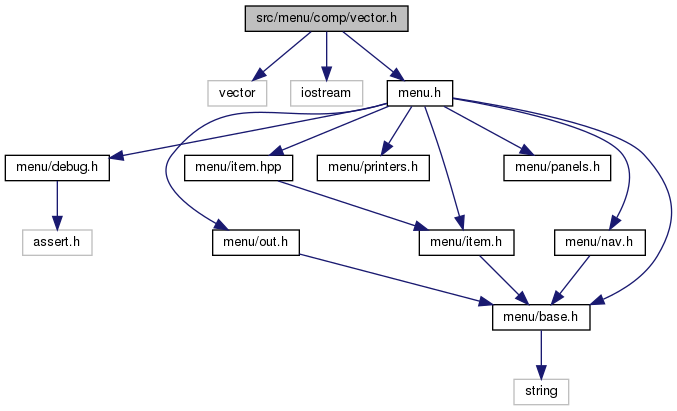
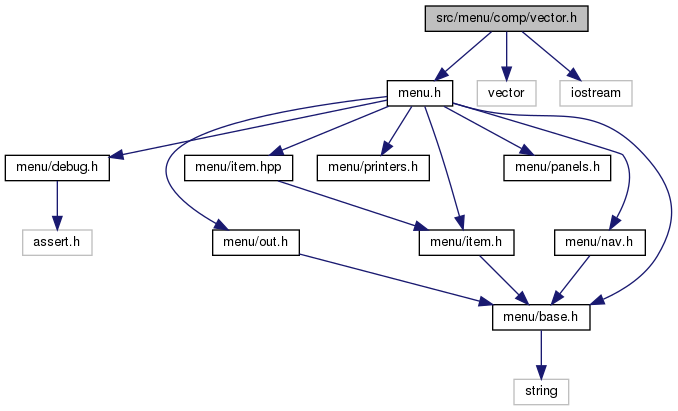
pause

diff --git a/html/vector_8h_source.html b/html/vector_8h_source.html
@@ -66,7 +66,7 @@ $(function() {
 <div class="title">vector.h</div>  </div>
 </div><!--header-->
 <div class="contents">
-<a href="vector_8h.html">Go to the documentation of this file.</a><div class="fragment"><div class="line"><a name="l00001"></a><span class="lineno">    1</span>&#160;<span class="comment">/* -*- C++ -*- */</span></div><div class="line"><a name="l00002"></a><span class="lineno">    2</span>&#160;<span class="preprocessor">#pragma once</span></div><div class="line"><a name="l00003"></a><span class="lineno">    3</span>&#160;</div><div class="line"><a name="l00009"></a><span class="lineno">    9</span>&#160;<span class="preprocessor">#include &lt;vector&gt;</span></div><div class="line"><a name="l00010"></a><span class="lineno">   10</span>&#160;<span class="preprocessor">#include &lt;iostream&gt;</span></div><div class="line"><a name="l00011"></a><span class="lineno">   11</span>&#160;<span class="keyword">using namespace </span><a class="code" href="namespacestd.html">std</a>;</div><div class="line"><a name="l00012"></a><span class="lineno">   12</span>&#160;</div><div class="line"><a name="l00013"></a><span class="lineno">   13</span>&#160;<span class="preprocessor">#include &lt;<a class="code" href="menu_8h.html">menu.h</a>&gt;</span></div><div class="line"><a name="l00014"></a><span class="lineno">   14</span>&#160;<span class="comment">// using namespace Menu;</span></div><div class="line"><a name="l00015"></a><span class="lineno">   15</span>&#160;</div><div class="line"><a name="l00016"></a><span class="lineno">   16</span>&#160;<span class="comment">// namespace Menu {</span></div><div class="line"><a name="l00017"></a><span class="lineno">   17</span>&#160;  <span class="keyword">template</span>&lt;<span class="keyword">typename</span> I=Empty&lt;&gt;&gt;</div><div class="line"><a name="l00018"></a><span class="lineno"><a class="line" href="structVectorMenu.html">   18</a></span>&#160;  <span class="keyword">struct </span><a class="code" href="structVectorMenu.html">VectorMenu</a>:<span class="keyword">public</span> I,vector&lt;Item*&gt; {</div><div class="line"><a name="l00019"></a><span class="lineno">   19</span>&#160;    <span class="keyword">using</span> vector&lt;Item*&gt;::vector;</div><div class="line"><a name="l00020"></a><span class="lineno">   20</span>&#160;    <span class="keyword">inline</span> idx_t size() {<span class="keywordflow">return</span> (idx_t)vector&lt;Item*&gt;::size();}</div><div class="line"><a name="l00021"></a><span class="lineno">   21</span>&#160;    <span class="keyword">template</span>&lt;<span class="keyword">typename</span> Nav,<span class="keyword">typename</span> Out&gt;</div><div class="line"><a name="l00022"></a><span class="lineno">   22</span>&#160;    <span class="keyword">static</span> <span class="keyword">inline</span> <span class="keywordtype">void</span> print(Nav&amp; bav,Out&amp; out) {}</div><div class="line"><a name="l00023"></a><span class="lineno">   23</span>&#160;    <span class="keyword">template</span>&lt;<span class="keyword">typename</span>... II&gt;</div><div class="line"><a name="l00024"></a><span class="lineno">   24</span>&#160;    <span class="keyword">inline</span> <a class="code" href="structVectorMenu.html">VectorMenu</a>(II... oo):vector&lt;Item*&gt;{oo...} {}</div><div class="line"><a name="l00025"></a><span class="lineno">   25</span>&#160;    <span class="keyword">template</span>&lt;<span class="keyword">typename</span> Nav,<span class="keyword">typename</span> Out&gt;</div><div class="line"><a name="l00026"></a><span class="lineno">   26</span>&#160;    <span class="keyword">inline</span> <span class="keywordtype">void</span> printItem(Nav&amp; nav,Out&amp; out,idx_t n) {</div><div class="line"><a name="l00027"></a><span class="lineno">   27</span>&#160;      vector&lt;Item*&gt;::operator[](n)-&gt;print(nav,out);</div><div class="line"><a name="l00028"></a><span class="lineno">   28</span>&#160;    }</div><div class="line"><a name="l00029"></a><span class="lineno">   29</span>&#160;    <span class="keyword">inline</span> <span class="keywordtype">bool</span> enabled(idx_t n)<span class="keyword"> const </span>{</div><div class="line"><a name="l00030"></a><span class="lineno">   30</span>&#160;      trace(MDO&lt;&lt;<span class="stringliteral">&quot;enabled? &quot;</span>&lt;&lt;n&lt;&lt;endl);</div><div class="line"><a name="l00031"></a><span class="lineno">   31</span>&#160;      <span class="keywordflow">return</span> vector&lt;Item*&gt;::operator[](n)-&gt;enabled(0);</div><div class="line"><a name="l00032"></a><span class="lineno">   32</span>&#160;    }</div><div class="line"><a name="l00033"></a><span class="lineno">   33</span>&#160;    <span class="keyword">inline</span> <span class="keywordtype">void</span> enable(idx_t n,<span class="keywordtype">bool</span> o) {</div><div class="line"><a name="l00034"></a><span class="lineno">   34</span>&#160;       vector&lt;Item*&gt;::operator[](n)-&gt;enable(0,o);</div><div class="line"><a name="l00035"></a><span class="lineno">   35</span>&#160;    }</div><div class="line"><a name="l00036"></a><span class="lineno">   36</span>&#160;    <span class="comment">// inline Item&amp; operator[](idx_t n) {return *vector&lt;Item*&gt;::operator[](n);}</span></div><div class="line"><a name="l00037"></a><span class="lineno">   37</span>&#160;  };</div><div class="line"><a name="l00038"></a><span class="lineno">   38</span>&#160;<span class="comment">// };</span></div><div class="ttc" id="structVectorMenu_html"><div class="ttname"><a href="structVectorMenu.html">VectorMenu</a></div><div class="ttdef"><b>Definition:</b> vector.h:18</div></div>
+<a href="vector_8h.html">Go to the documentation of this file.</a><div class="fragment"><div class="line"><a name="l00001"></a><span class="lineno">    1</span>&#160;<span class="comment">/* -*- C++ -*- */</span></div><div class="line"><a name="l00002"></a><span class="lineno">    2</span>&#160;<span class="preprocessor">#pragma once</span></div><div class="line"><a name="l00003"></a><span class="lineno">    3</span>&#160;</div><div class="line"><a name="l00009"></a><span class="lineno">    9</span>&#160;<span class="preprocessor">#include &lt;<a class="code" href="menu_8h.html">menu.h</a>&gt;</span></div><div class="line"><a name="l00010"></a><span class="lineno">   10</span>&#160;<span class="preprocessor">#include &lt;vector&gt;</span></div><div class="line"><a name="l00011"></a><span class="lineno">   11</span>&#160;<span class="preprocessor">#include &lt;iostream&gt;</span></div><div class="line"><a name="l00012"></a><span class="lineno">   12</span>&#160;<span class="keyword">using namespace </span><a class="code" href="namespacestd.html">std</a>;</div><div class="line"><a name="l00013"></a><span class="lineno">   13</span>&#160;</div><div class="line"><a name="l00014"></a><span class="lineno">   14</span>&#160;<span class="comment">// using namespace Menu;</span></div><div class="line"><a name="l00015"></a><span class="lineno">   15</span>&#160;</div><div class="line"><a name="l00016"></a><span class="lineno">   16</span>&#160;<span class="comment">// namespace Menu {</span></div><div class="line"><a name="l00020"></a><span class="lineno">   20</span>&#160;<span class="comment"></span>  <span class="keyword">template</span>&lt;<span class="keyword">typename</span> I=Empty&lt;&gt;&gt;</div><div class="line"><a name="l00021"></a><span class="lineno"><a class="line" href="structVectorMenu.html">   21</a></span>&#160;  <span class="keyword">struct </span><a class="code" href="structVectorMenu.html">VectorMenu</a>:<span class="keyword">public</span> I,vector&lt;Item*&gt; {</div><div class="line"><a name="l00022"></a><span class="lineno">   22</span>&#160;    <span class="keyword">using</span> vector&lt;Item*&gt;::vector;</div><div class="line"><a name="l00023"></a><span class="lineno">   23</span>&#160;    <span class="keyword">inline</span> idx_t size() {<span class="keywordflow">return</span> (idx_t)vector&lt;Item*&gt;::size();}</div><div class="line"><a name="l00024"></a><span class="lineno">   24</span>&#160;    <span class="keyword">template</span>&lt;<span class="keyword">typename</span> Nav,<span class="keyword">typename</span> Out&gt;</div><div class="line"><a name="l00025"></a><span class="lineno">   25</span>&#160;    <span class="keyword">static</span> <span class="keyword">inline</span> <span class="keywordtype">void</span> print(Nav&amp; bav,Out&amp; out) {}</div><div class="line"><a name="l00026"></a><span class="lineno">   26</span>&#160;    <span class="keyword">template</span>&lt;<span class="keyword">typename</span>... II&gt;</div><div class="line"><a name="l00027"></a><span class="lineno">   27</span>&#160;    <span class="keyword">inline</span> <a class="code" href="structVectorMenu.html">VectorMenu</a>(II... oo):vector&lt;Item*&gt;{oo...} {}</div><div class="line"><a name="l00028"></a><span class="lineno">   28</span>&#160;    <span class="keyword">template</span>&lt;<span class="keyword">typename</span> Nav,<span class="keyword">typename</span> Out&gt;</div><div class="line"><a name="l00029"></a><span class="lineno">   29</span>&#160;    <span class="keyword">inline</span> <span class="keywordtype">void</span> printItem(Nav&amp; nav,Out&amp; out,idx_t n) {</div><div class="line"><a name="l00030"></a><span class="lineno">   30</span>&#160;      vector&lt;Item*&gt;::operator[](n)-&gt;print(nav,out);</div><div class="line"><a name="l00031"></a><span class="lineno">   31</span>&#160;    }</div><div class="line"><a name="l00032"></a><span class="lineno">   32</span>&#160;    <span class="keyword">inline</span> <span class="keywordtype">bool</span> enabled(idx_t n)<span class="keyword"> const </span>{</div><div class="line"><a name="l00033"></a><span class="lineno">   33</span>&#160;      trace(MDO&lt;&lt;<span class="stringliteral">&quot;enabled? &quot;</span>&lt;&lt;n&lt;&lt;endl);</div><div class="line"><a name="l00034"></a><span class="lineno">   34</span>&#160;      <span class="keywordflow">return</span> vector&lt;Item*&gt;::operator[](n)-&gt;enabled(0);</div><div class="line"><a name="l00035"></a><span class="lineno">   35</span>&#160;    }</div><div class="line"><a name="l00036"></a><span class="lineno">   36</span>&#160;    <span class="keyword">inline</span> <span class="keywordtype">void</span> enable(idx_t n,<span class="keywordtype">bool</span> o) {</div><div class="line"><a name="l00037"></a><span class="lineno">   37</span>&#160;       vector&lt;Item*&gt;::operator[](n)-&gt;enable(0,o);</div><div class="line"><a name="l00038"></a><span class="lineno">   38</span>&#160;    }</div><div class="line"><a name="l00039"></a><span class="lineno">   39</span>&#160;    <span class="comment">// inline Item&amp; operator[](idx_t n) {return *vector&lt;Item*&gt;::operator[](n);}</span></div><div class="line"><a name="l00040"></a><span class="lineno">   40</span>&#160;  };</div><div class="line"><a name="l00041"></a><span class="lineno">   41</span>&#160;<span class="comment">// };</span></div><div class="ttc" id="structVectorMenu_html"><div class="ttname"><a href="structVectorMenu.html">VectorMenu</a></div><div class="ttdef"><b>Definition:</b> vector.h:21</div></div>
 <div class="ttc" id="namespacestd_html"><div class="ttname"><a href="namespacestd.html">std</a></div></div>
 <div class="ttc" id="menu_8h_html"><div class="ttname"><a href="menu_8h.html">menu.h</a></div><div class="ttdoc">ArduinoMenu main include file. </div></div>
 </div><!-- fragment --></div><!-- contents -->

diff --git a/html/vector_8h.html b/html/vector_8h.html
@@ -71,23 +71,23 @@ $(function() {
 
 <p>ArduinoMenu std::vector based menu.  
 <a href="#details">More...</a></p>
-<div class="textblock"><code>#include &lt;vector&gt;</code><br />
+<div class="textblock"><code>#include &lt;<a class="el" href="menu_8h_source.html">menu.h</a>&gt;</code><br />
+<code>#include &lt;vector&gt;</code><br />
 <code>#include &lt;iostream&gt;</code><br />
-<code>#include &lt;<a class="el" href="menu_8h_source.html">menu.h</a>&gt;</code><br />
 </div><div class="textblock"><div class="dynheader">
 Include dependency graph for vector.h:</div>
 <div class="dyncontent">
 <div class="center"><img src="vector_8h__incl.png" border="0" usemap="#src_2menu_2comp_2vector_8h" alt=""/></div>
 <map name="src_2menu_2comp_2vector_8h" id="src_2menu_2comp_2vector_8h">
-<area shape="rect" id="node4" href="menu_8h.html" title="ArduinoMenu main include file. " alt="" coords="387,80,453,107"/>
-<area shape="rect" id="node5" href="debug_8h.html" title="debug macros and utilities " alt="" coords="5,155,109,181"/>
-<area shape="rect" id="node7" href="base_8h.html" title="ArduinoMenu interfaces (API&#39;s) " alt="" coords="493,304,590,331"/>
-<area shape="rect" id="node9" href="item_8h.html" title="Base menu item implementations. " alt="" coords="419,229,514,256"/>
-<area shape="rect" id="node10" href="printers_8h.html" title="ArduinoMenu part printers. " alt="" coords="317,155,429,181"/>
-<area shape="rect" id="node11" href="out_8h.html" title="ArduinoMenu output implementations. " alt="" coords="213,229,299,256"/>
-<area shape="rect" id="node12" href="panels_8h.html" title="ArduinoMenu output space management. " alt="" coords="504,155,611,181"/>
-<area shape="rect" id="node13" href="nav_8h.html" title="ArduinoMenu navigation implementations. " alt="" coords="555,229,645,256"/>
-<area shape="rect" id="node14" href="item_8hpp_source.html" title="menu/item.hpp" alt="" coords="185,155,293,181"/>
+<area shape="rect" id="node2" href="menu_8h.html" title="ArduinoMenu main include file. " alt="" coords="387,80,453,107"/>
+<area shape="rect" id="node3" href="debug_8h.html" title="debug macros and utilities " alt="" coords="5,155,109,181"/>
+<area shape="rect" id="node5" href="base_8h.html" title="ArduinoMenu interfaces (API&#39;s) " alt="" coords="493,304,590,331"/>
+<area shape="rect" id="node7" href="item_8h.html" title="Base menu item implementations. " alt="" coords="419,229,514,256"/>
+<area shape="rect" id="node8" href="printers_8h.html" title="ArduinoMenu part printers. " alt="" coords="317,155,429,181"/>
+<area shape="rect" id="node9" href="out_8h.html" title="ArduinoMenu output implementations. " alt="" coords="213,229,299,256"/>
+<area shape="rect" id="node10" href="panels_8h.html" title="ArduinoMenu output space management. " alt="" coords="504,155,611,181"/>
+<area shape="rect" id="node11" href="nav_8h.html" title="ArduinoMenu navigation implementations. " alt="" coords="555,229,645,256"/>
+<area shape="rect" id="node12" href="item_8hpp_source.html" title="menu/item.hpp" alt="" coords="185,155,293,181"/>
 </map>
 </div>
 </div>

diff --git a/html/structVectorMenu.html b/html/structVectorMenu.html
@@ -66,6 +66,8 @@ $(function() {
 <div class="title">VectorMenu&lt; I &gt; Struct Template Reference</div>  </div>
 </div><!--header-->
 <div class="contents">
+
+<p><code>#include &lt;<a class="el" href="vector_8h_source.html">vector.h</a>&gt;</code></p>
 <div class="dynheader">
 Inheritance diagram for VectorMenu&lt; I &gt;:</div>
 <div class="dyncontent">
@@ -94,7 +96,12 @@ template&lt;typename Nav , typename Out &gt; </td></tr>
 <tr class="memitem:a6afd504bebb9fc0196133d541f2c0192"><td class="memTemplItemLeft" align="right" valign="top">static void&#160;</td><td class="memTemplItemRight" valign="bottom"><b>print</b> (Nav &amp;bav, Out &amp;out)</td></tr>
 <tr class="separator:a6afd504bebb9fc0196133d541f2c0192"><td class="memSeparator" colspan="2">&#160;</td></tr>
 </table>
-<hr/>The documentation for this struct was generated from the following file:<ul>
+<a name="details" id="details"></a><h2 class="groupheader">Detailed Description</h2>
+<div class="textblock"><h3>template&lt;typename I = Empty&lt;&gt;&gt;<br />
+struct VectorMenu&lt; I &gt;</h3>
+
+<p>The <a class="el" href="structVectorMenu.html">VectorMenu</a> class extends std::vector as a menu </p>
+</div><hr/>The documentation for this struct was generated from the following file:<ul>
 <li>src/menu/comp/<a class="el" href="vector_8h_source.html">vector.h</a></li>
 </ul>
 </div><!-- contents -->

diff --git a/src/menu/nav.h b/src/menu/nav.h
@@ -55,12 +55,46 @@ class NavBase:public N {
     }
     inline idx_t size() {return data->size();}
     inline void enable(idx_t n,bool o) {data->enable(n,o);}
-    inline bool enabled(idx_t n) {return data->enabled(n);}
+    inline bool enabled(idx_t n) const {return data->enabled(n);}
     inline NavAgent activate() {return data->activate();}
     inline NavAgent activate(idx_t n) {return data->activateItem(n);}
     template<typename Nav>
     inline Modes _mode(Nav&) const {return data->mode();}
     inline void newView() {out.newView();}
+    // inline void chkNode(nav,idx_t n) {
+    //   if(data->isNode()) nav.treeNode(...);//we dont want to request the item...
+    //   //this implies data has to be the same type
+    //   //and fk StaticMenu has not
+    //
+    //   /*use index
+    //     +index goes well with static type menu, access is compile time
+    //     + dynamic menus have fast index access
+    //     - index would require full depth travel because only base address could be stored
+    //   */
+    //
+    //   /*use a nested nav list
+    //     - messy
+    //     + direct access
+    //     - need to know the full type in advance... we can not write a full type because it diverges (its a tree)
+    //     - not possible to write the type at runtime, it requires the very base to change to yet unspecifyed types
+    //   */
+    //
+    //   /* use static only for flat nav
+    //     - no worries
+    //   */
+    //
+    //   /*use index for static and list for dynamic
+    //     - code diverges (as all)
+    //     - static traverse is compile time! NOT, using static index is same as using types!
+    //     + dynamic is pointer based, no traverse
+    //   */
+    //
+    //   /* use a wrapper class with virtual base as we do for all
+    //     + we already have the virtual base
+    //   */
+    //
+    //
+    // }
   protected:
     Out out;
     bool onMenu=false;
@@ -87,12 +121,14 @@ struct NavRoot:public N {
     // _trace(MDO<<"NavRoot::mode"<<endl);
     // return N::template _mode<This>(*this);}
   // inline NavAgent activate() {return N::activate();}
-  inline void printMenu() {
+  template<typename T>
+  inline void printMenu(T& t) {
     N::enterMenuRender();
     N::newView();
-    N::template printMenu<This>(*this);
+    N::template printMenu<T>(t);
     N::exitMenuRender();
   }
+  inline void printMenu() {printMenu(*this);}
 };
 
 /**
@@ -103,14 +139,17 @@ class DynamicNav:public NavNode,public NavRoot<NavBase<Out,Data,N>> {
   public:
     using Base=NavRoot<NavBase<Out,Data,N>>;
     using This=DynamicNav<Out,Data,N>;
+    using NavRoot<NavBase<Out,Data,N>>::NavRoot;
     // DynamicNav(Data& o):data(&o) {}
+    // inline void printMenu() {Base::template Base::printMenu<Base>((Base&)*this);}
     // inline void printMenu() {This::printMenu(*this);}
+    inline void printMenu() {Base::printMenu();}
     // template<typename Nav>
     // inline void printMenu(Nav& nav) {
     //   Base::out.template printMenu<Nav,Out,Data>(nav,Base::out,*Base::data);
     // }
-    // inline bool selected(idx_t i) const override {return N::selected(i);}
-    // inline bool enabled(idx_t i) const override {return data->enabled(i);}
+    inline bool selected(idx_t i) const override {return Base::selected(i);}
+    inline bool enabled(idx_t i) const override {return Base::enabled(i);}
     // inline void enable(idx_t n,bool o) {data->enable(n,o);}
     inline bool up() override {return N::template _up<This>(*this);}
     inline bool down() override {return N::template _down<This>(*this);}
@@ -238,11 +277,10 @@ class NavTree {
     inline void enterMenuRender() {path[level].enterMenuRender();}
     inline void exitMenuRender() {path[level].exitMenuRender();}
     inline void newView() {path[level].newView();}
-    template<typename Data>
-    inline void setTarget(Data d) {path[level].setTarget(d);}
+    inline void setTarget(typename N::DataType& d) {path[level].setTarget(d);}
     inline idx_t size() {return path[level].size();}
     inline void enable(idx_t n,bool o) {path[level].enable(n,o);}
-    inline bool enabled(idx_t n) {return path[level].enabled(n);}
+    inline bool enabled(idx_t n) const {return path[level].enabled(n);}
     inline NavAgent activate() {return path[level].activate();}
     inline NavAgent activate(idx_t n) {return path[level].activate(n);}
     inline bool hasFocus() const {return path[level].hasFocus();}
@@ -254,9 +292,12 @@ class NavTree {
     inline void printMenu(Nav& nav) {path[level].printMenu(nav);}
 
     //TODO: remove member access!
-    template<typename Nav> inline bool _enter(Nav& nav) {
+    template<typename Nav>
+    inline bool _enter(Nav& nav) {
       bool r=path[level]._enter(nav);
-      if (r&&!hasFocus()) level++;
+      //check ItemNav::data @ NapPos::at for node type
+      //upgrade level if so
+      N::chkNode(nav);
       return r;
     }
     template<typename Nav>
@@ -270,6 +311,15 @@ class NavTree {
     template<typename Nav> inline bool _left(Nav& nav) {return path[level]._left(nav);}
     template<typename Nav> inline bool _right(Nav& nav) {return path[level]._right(nav);}
     inline idx_t pos() {return path[level].pos();}
+    inline void treeNode(typename N::DataType& nt) {
+      if (level>=max_depth) {
+        //TODO: make this generic
+        // Serial.println("max depth reached! increase max_depth on tree navigation object");
+        return;
+      }
+      level++;
+      setTarget(nt);
+    }
   protected:
     idx_t level=0;
     N path[max_depth];

diff --git a/latex/structVectorMenu.tex b/latex/structVectorMenu.tex
@@ -2,6 +2,10 @@
 \label{structVectorMenu}\index{Vector\+Menu$<$ I $>$@{Vector\+Menu$<$ I $>$}}
 
 
+{\ttfamily \#include $<$vector.\+h$>$}
+
+
+
 Inheritance diagram for Vector\+Menu$<$ I $>$\+:\nopagebreak
 \begin{figure}[H]
 \begin{center}
@@ -34,6 +38,12 @@ idx\+\_\+t {\bfseries size} ()
 {\footnotesize template$<$typename Nav , typename Out $>$ }\\static void {\bfseries print} (Nav \&bav, Out \&out)
 \end{DoxyCompactItemize}
 
+
+\subsection{Detailed Description}
+\subsubsection*{template$<$typename I = Empty$<$$>$$>$\newline
+struct Vector\+Menu$<$ I $>$}
+
+The \hyperlink{structVectorMenu}{Vector\+Menu} class extends std\+::vector as a menu 
 
 The documentation for this struct was generated from the following file\+:\begin{DoxyCompactItemize}
 \item 

diff --git a/src/menu/item.h b/src/menu/item.h
@@ -114,6 +114,7 @@ struct Empty:public I {
   static EmptyCmds<false> cmds;
   constexpr static inline Modes mode() {return Modes::Normal;}
   constexpr static inline bool parentDraw() {return false;}
+  constexpr static inline bool isNode() {return false;}
 };
 
 /** \defgroup Agents Command and navigation agents
@@ -245,6 +246,7 @@ template<typename I>
 struct StaticMenu<I>:public I {
   using I::I;
   using This=StaticMenu<I>;
+  static inline bool isNode() {return true;}
   constexpr static inline idx_t size() {return 1;}
   template<typename Nav,typename Out>
   inline void print(Nav& nav,Out& out) {}

diff --git a/src/menu/comp/vector.h b/src/menu/comp/vector.h
@@ -6,17 +6,21 @@
 * @brief ArduinoMenu std::vector based menu
 */
 
+#include <menu.h>
 #include <vector>
 #include <iostream>
 using namespace std;
 
-#include <menu.h>
 // using namespace Menu;
 
 // namespace Menu {
+  /**
+  * The VectorMenu class extends std::vector as a menu
+  */
   template<typename I=Empty<>>
   struct VectorMenu:public I,vector<Item*> {
     using vector<Item*>::vector;
+    static inline bool isNode() {return true;}
     inline idx_t size() {return (idx_t)vector<Item*>::size();}
     template<typename Nav,typename Out>
     static inline void print(Nav& bav,Out& out) {}

diff --git a/latex/vector_8h.tex b/latex/vector_8h.tex
@@ -5,10 +5,11 @@
 Arduino\+Menu std\+::vector based menu.  
 
 
+{\ttfamily \#include $<$menu.\+h$>$}\newline
 {\ttfamily \#include $<$vector$>$}\newline
 {\ttfamily \#include $<$iostream$>$}\newline
-{\ttfamily \#include $<$menu.\+h$>$}\newline
-Include dependency graph for vector.\+h\+:\nopagebreak
+Include dependency graph for vector.\+h\+:
+\nopagebreak
 \begin{figure}[H]
 \begin{center}
 \leavevmode

diff --git a/examples/console/src/main.cpp b/examples/console/src/main.cpp
@@ -96,10 +96,10 @@ DynaMenu dynaMenu(
 );
 
 Out out;//to use with single option
-StaticNav<Out,SingleOp> singleNav;
+DynamicNav<Out,SingleOp> singleNav;
 NavRoot<
   ItemNav<
-    StaticNav<Out,MainMenu,NavPos<>>
+    DynamicNav<Out,MainMenu,NavPos<>>
   >
 > nav;
 DynamicNav<

diff --git a/src/menu/debug.h b/src/menu/debug.h
@@ -8,7 +8,8 @@
 
 #ifdef MENU_DEBUG
   #ifdef ARDUINO
-    #include <streamFlow.h>
+    #pragma warning COMPILE FOR ARDUINO FRAMEWORK!
+    // #include <streamFlow.h>
     // #include <Streaming.h>
     #ifndef MDO
       #define MDO Serial
